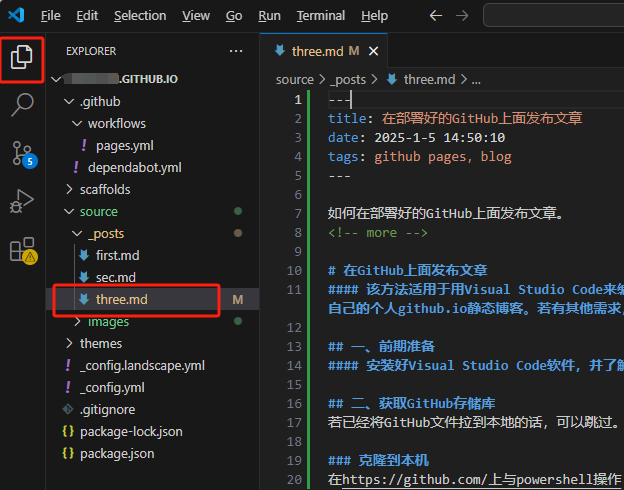
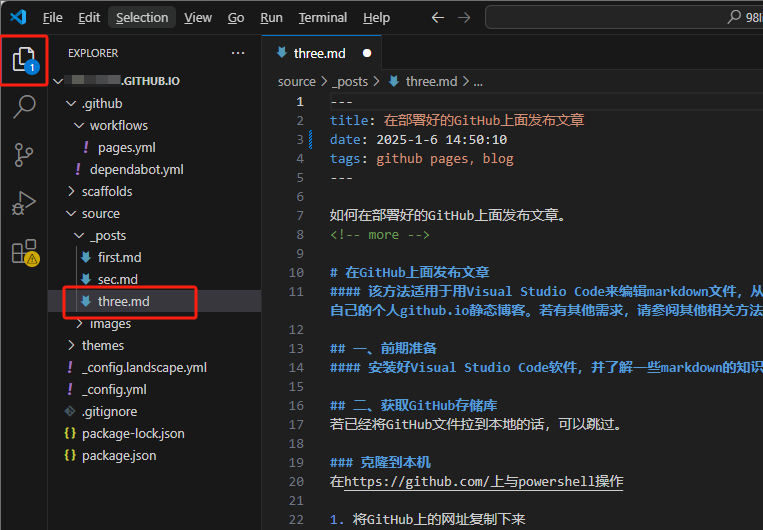
three1

Changed region(s): [[0.0, 0.0, 1.0, 1.0]]

diff --git a/source/_posts/three.md b/source/_posts/three.md
@@ -1,6 +1,6 @@
 ---
 title: 在部署好的GitHub上面发布文章
-date: 2025-1-5 14:50:10
+date: 2025-1-6 14:50:10
 tags: github pages，blog
 ---
 
@@ -34,7 +34,7 @@ tags: github pages，blog
 2. 若涉及到需要上传图片，则要在与_posts同目录下创建一个存放图片的文件夹（如images）  
 ![images](/images/three-acticle/images.png) 
 
-### 编写文章
+### 编写文章  
 在vs code中打开md文件，并进行文章编写
 ![modifyaticle](/images/three-acticle/modifyaticle.png)  
 
@@ -42,8 +42,8 @@ tags: github pages，blog
 在vs code上传后，可以到GitHub上查看上传状态  
 
 1. 将编辑好的文件上传至GitHub(如three.md)  
-![commit]()  
-![sync]()   
+![commit](/images/three-acticle/commit.png)  
+![sync](/images/three-acticle/sync.png)   
 
 2. 上传后，在GitHub中的Action模块中，便可以看到上传进度了。  
 注：黄色圆点表示正在运行，红色叉叉表示失败，绿色勾勾便是已经完成 
